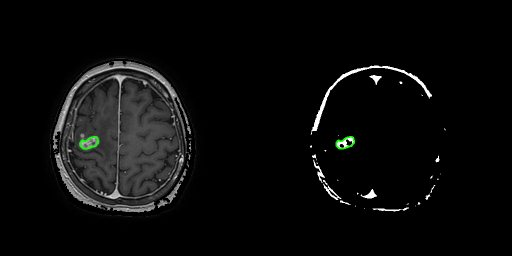
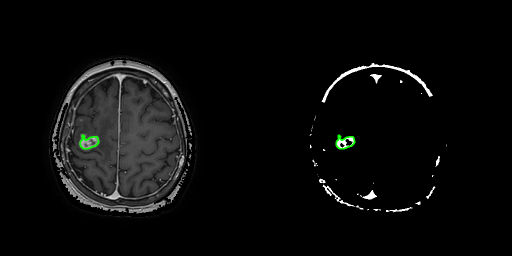
update

diff --git a/FCM_Parallel/skull_mask.py b/FCM_Parallel/skull_mask.py
@@ -12,6 +12,18 @@ class SkullMask:
         edges = cv2.Canny(image, low_threshold, high_threshold)
         return edges
 
+    # def find_contours(self, image):
+    #     # Áp dụng GaussianBlur để giảm nhiễu và làm mờ ảnh
+    #     blurred = cv2.GaussianBlur(image, (5, 5), 0)
+
+    #     # Áp dụng ngưỡng để tạo ảnh nhị phân
+    #     edges = self.canny_edge(blurred)
+
+    #     # Tìm contour trong ảnh nhị phân
+    #     contours, _ = cv2.findContours(edges, cv2.RETR_EXTERNAL, cv2.CHAIN_APPROX_SIMPLE)
+
+    #     return cv2.contourArea(contours[0])
+
     def find_contours(self, image):
         # Áp dụng GaussianBlur để giảm nhiễu và làm mờ ảnh
         blurred = cv2.GaussianBlur(image, (5, 5), 0)
@@ -21,8 +33,11 @@ class SkullMask:
 
         # Tìm contour trong ảnh nhị phân
         contours, _ = cv2.findContours(edges, cv2.RETR_EXTERNAL, cv2.CHAIN_APPROX_SIMPLE)
+        
+        sorted_contours = sorted(contours, key=cv2.contourArea, reverse=True)
 
-        return cv2.contourArea(contours[0])
+        areas = [cv2.contourArea(contour) for contour in sorted_contours]
+        return np.max(areas)
 
     def apply_gmm_segmentation(self, image, n_components=4):
         image_flat = image.flatten().reshape(-1, 1)
